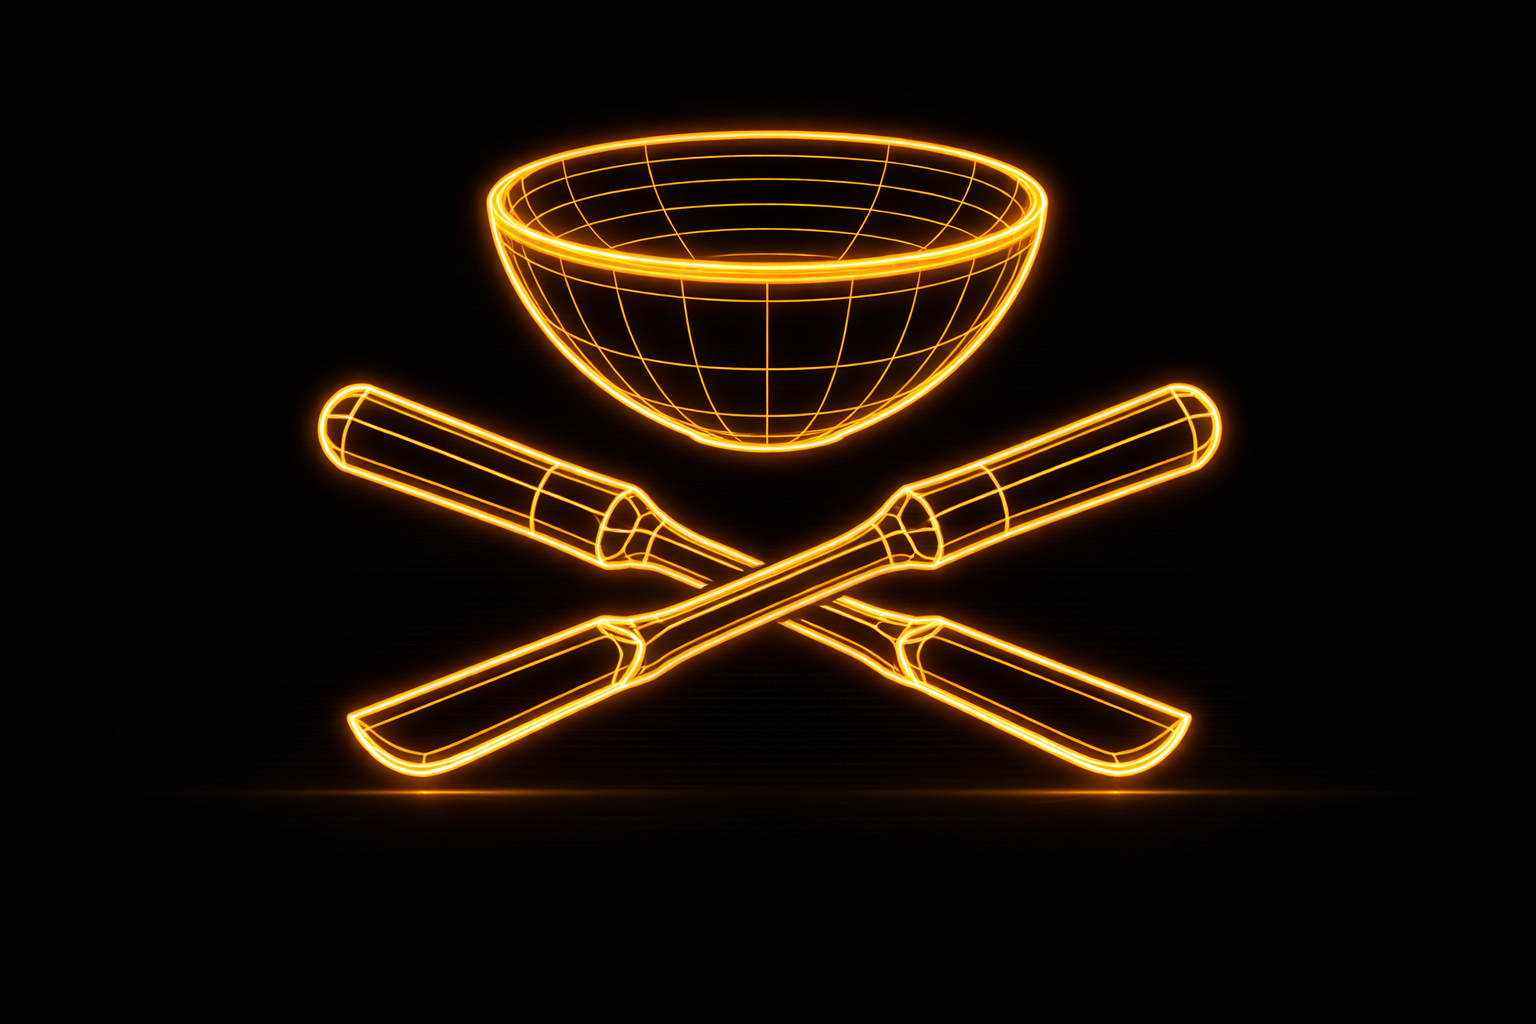
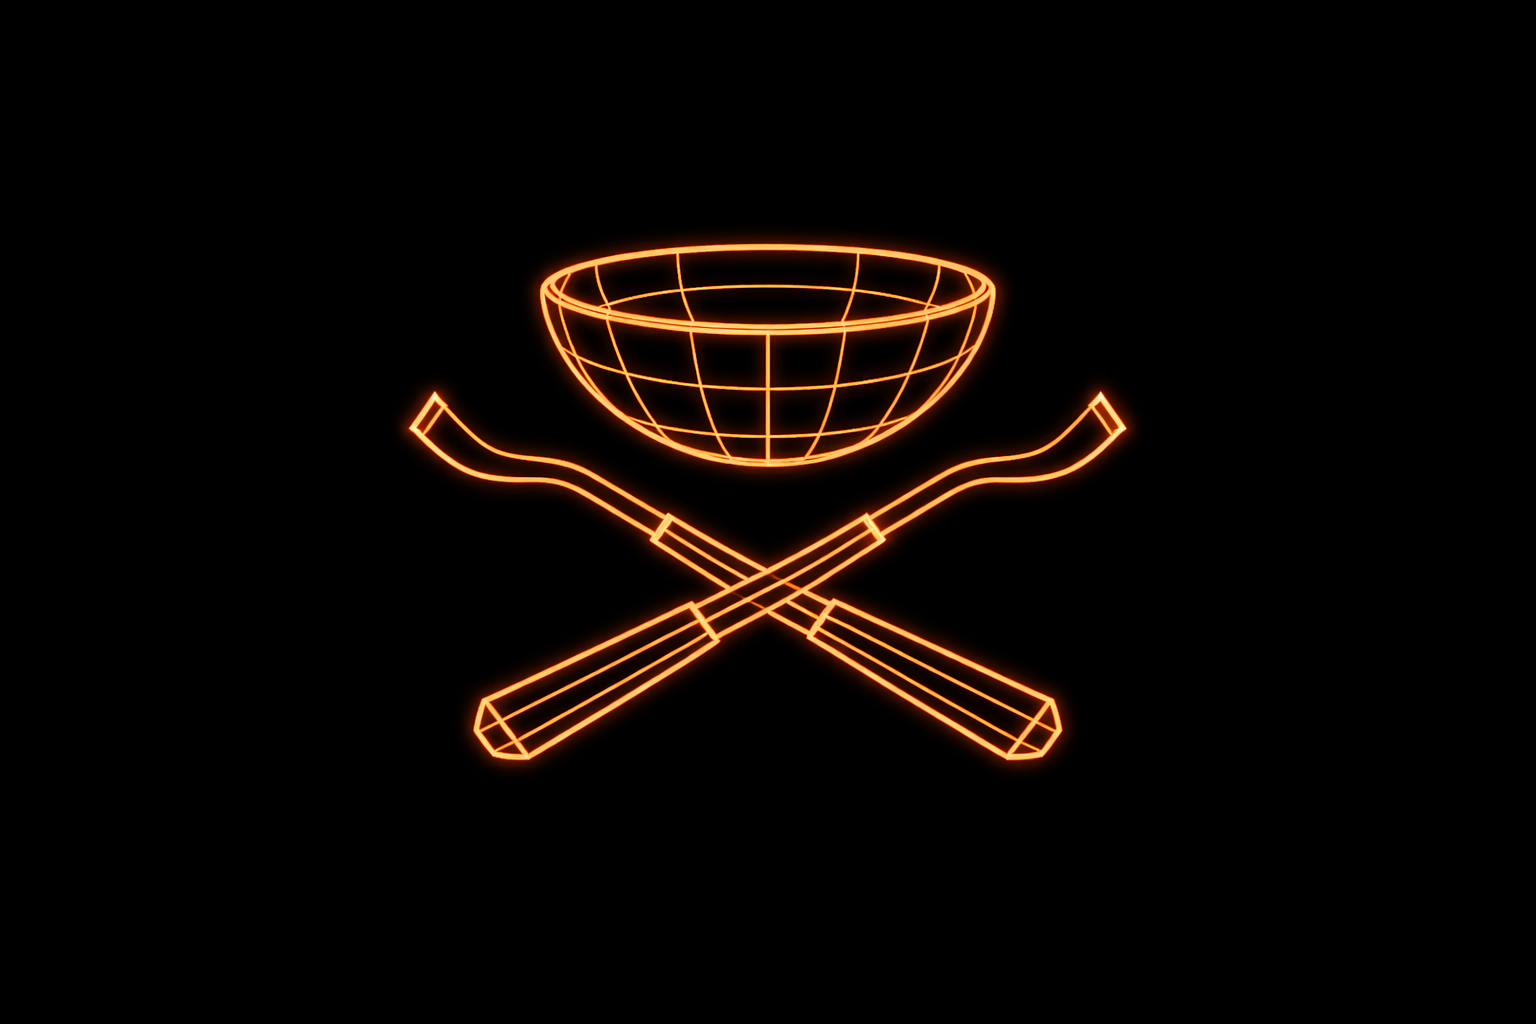
Update Mad Branch header image, adjust brightness
- Replace header with cleaner bowl and gouges design
- Reduce overlay opacity to 55% for better visibility

Changed region(s): [[0.1875, 0.0938, 0.8438, 0.8125]]

diff --git a/css/styles.css b/css/styles.css
@@ -659,7 +659,7 @@ a:focus-visible {
   position: absolute;
   inset: 0;
   background-color: var(--color-bg);
-  opacity: 0.7;
+  opacity: 0.55;
 }
 
 .case-study-header--mad-branch .case-study-header__inner {
